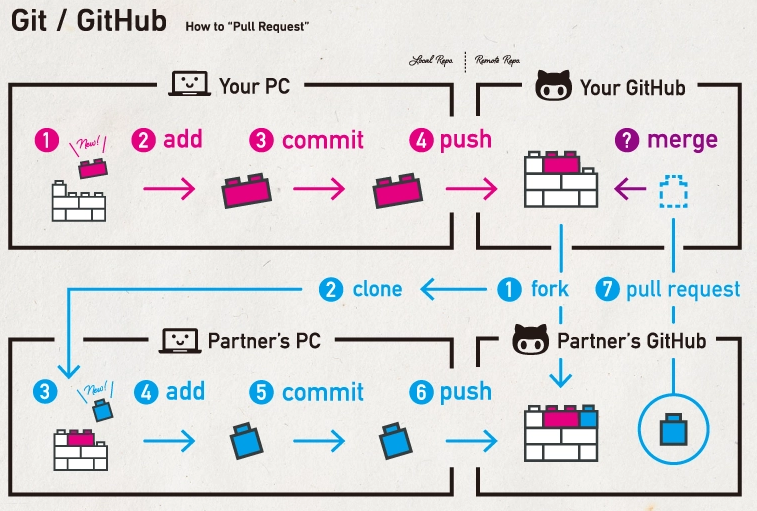
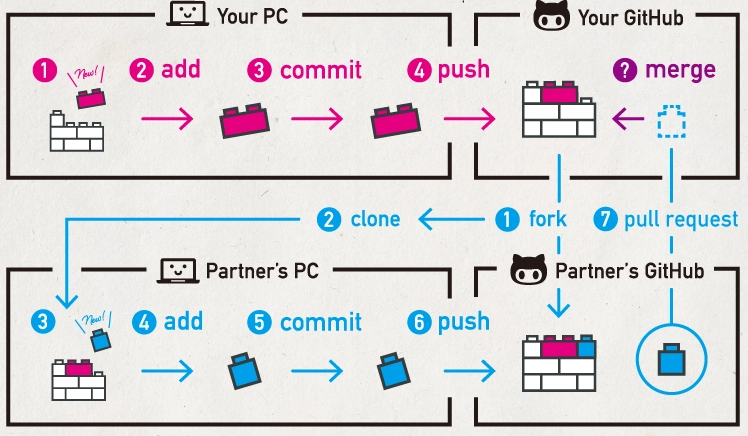
Creando un Fork, contribuyendo a un repositorio

Changed region(s): [[0.0, 0.0, 1.0, 1.0]]

diff --git a/README.md b/README.md
@@ -45,6 +45,7 @@ El contenido de este documento son apuntes del [Curso profesional de Git y GitHu
   - [Haciendo merge de ramas de desarrollo a master](#Haciendo-merge-de-ramas-de-desarrollo-a-master)
   - [Pull Request](#Pull-Request)
   - [Utilizando Pull Requests en GitHub](#Utilizando-Pull-Requests-en-GitHub)
+  [Creando un Fork, contribuyendo a un repositorio](#Creando-un-Fork,-contribuyendo-a-un-repositorio)
 - [Multiples entornos de trabajo](#Multiples-entornos-de-trabajo)
 - [Comandos en Git para casos de emergencia](#Comandos-en-Git-para-casos-de-emergencia)
 - [Bonus](#Bonus)
@@ -863,6 +864,34 @@ El flujo del pull request es el siguiente:
 </div>
 
 > Importante: Cuando se modifica una rama, también se modifica el pull request.
+
+### Creando un Fork, contribuyendo a un repositorio
+
+Para participar en un proyecto existente, en el que no tengas permisos de escritura, puedes bifurcarlo o hacer un **fork**. Esto consiste en crear una copia completa del repositorio totalmente bajo tu control y en tu cuenta.
+
+<div align="center"> 
+  <img src="readme_img/pull-request.png
+" width="">
+</div>
+
+- Los pasos para bajarse el repositorio: 
+1. Hacer Fork Directamente en GitHub
+2. Hacer un clone del repositorio: `git clone url:repositorio_https_o_ssh`
+3. Ahora se puede modificar el repositorio en local. 
+4. Hacer push con cambios realizados: `git push origin master`
+5. Hacer la petición de una Pull Request (Hasta esperar aprobación).
+
+- Los pasos para descargar cambios directamente del repositorio maestro (El dueño es el Admin “Quien aprueba ó no las Pull Request”):
+1. Agrego un nuevo enlace al repositorio: `git remote add “Nombre (Preferencia upstream)” url:repositorio_https_o_ssh`
+2. Verificar que se realizo correctamente: `git remote -v`
+3. Descargar cambios: `git pull upstream master`
+4. Mandar los cambios de upstream a nuestro origin `git push origin master`
+
+<div align="center"> 
+  <img src="readme_img/clone.png" width="">
+</div>
+
+Cuando hacemos un fork de un repositorio, se hace una copia exacta del repositorio original que podemos utilizar como un repositorio git cualquiera. Después de hacer fork tendremos dos repositorios git idénticos pero con distinta URL. Finalizado el proceso tendremos dos respositorios independientes que pueden cada uno evolucionar de forma autónoma. GitHub nos permite a su vez comparar los cambios con el proyecto original para poder aportar mediante un pull request. 
 
 ## Multiples entornos de trabajo
 ## Comandos en Git para casos de emergencia
